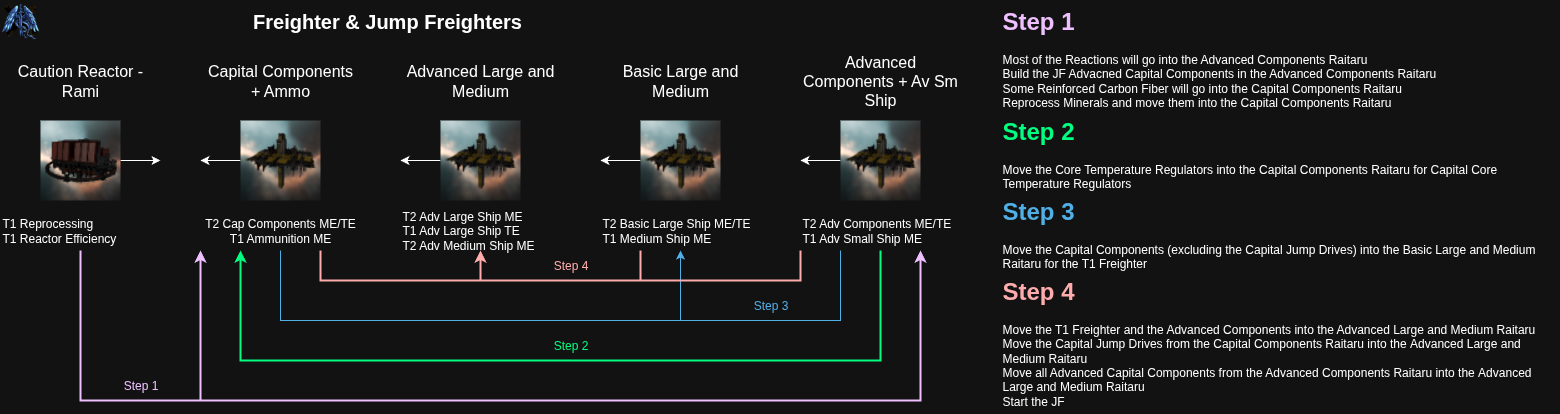
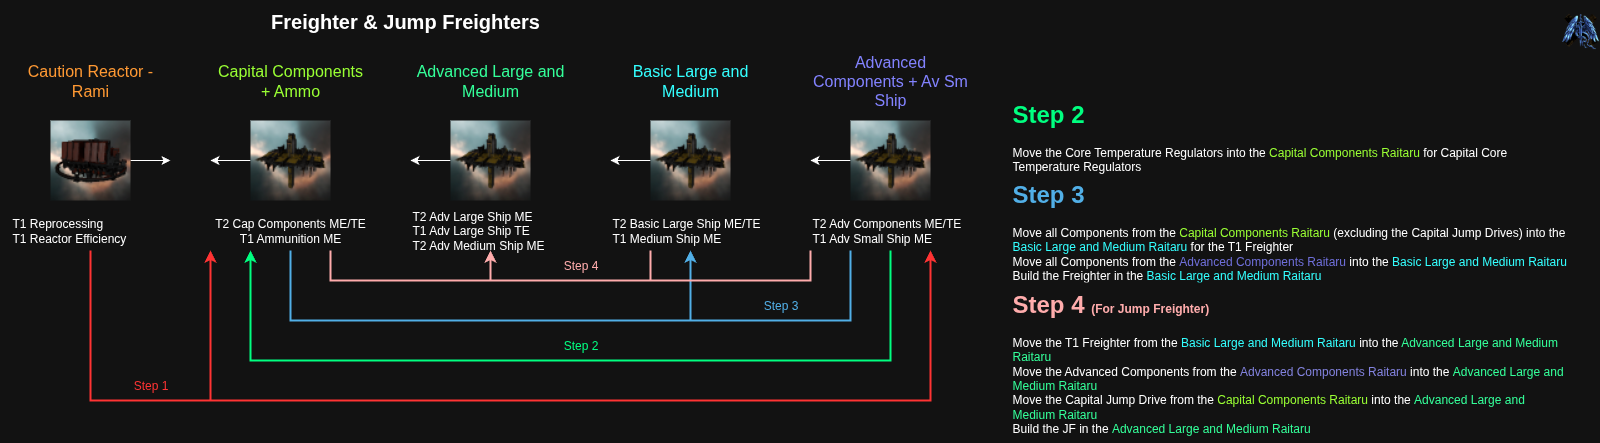
Adds missing processes and updates existing

diff --git a/README.md b/README.md
@@ -1,0 +1,3 @@
+RCI Industrial Zone (RIZ)
+
+Structure layout and processes for our indy hub.
